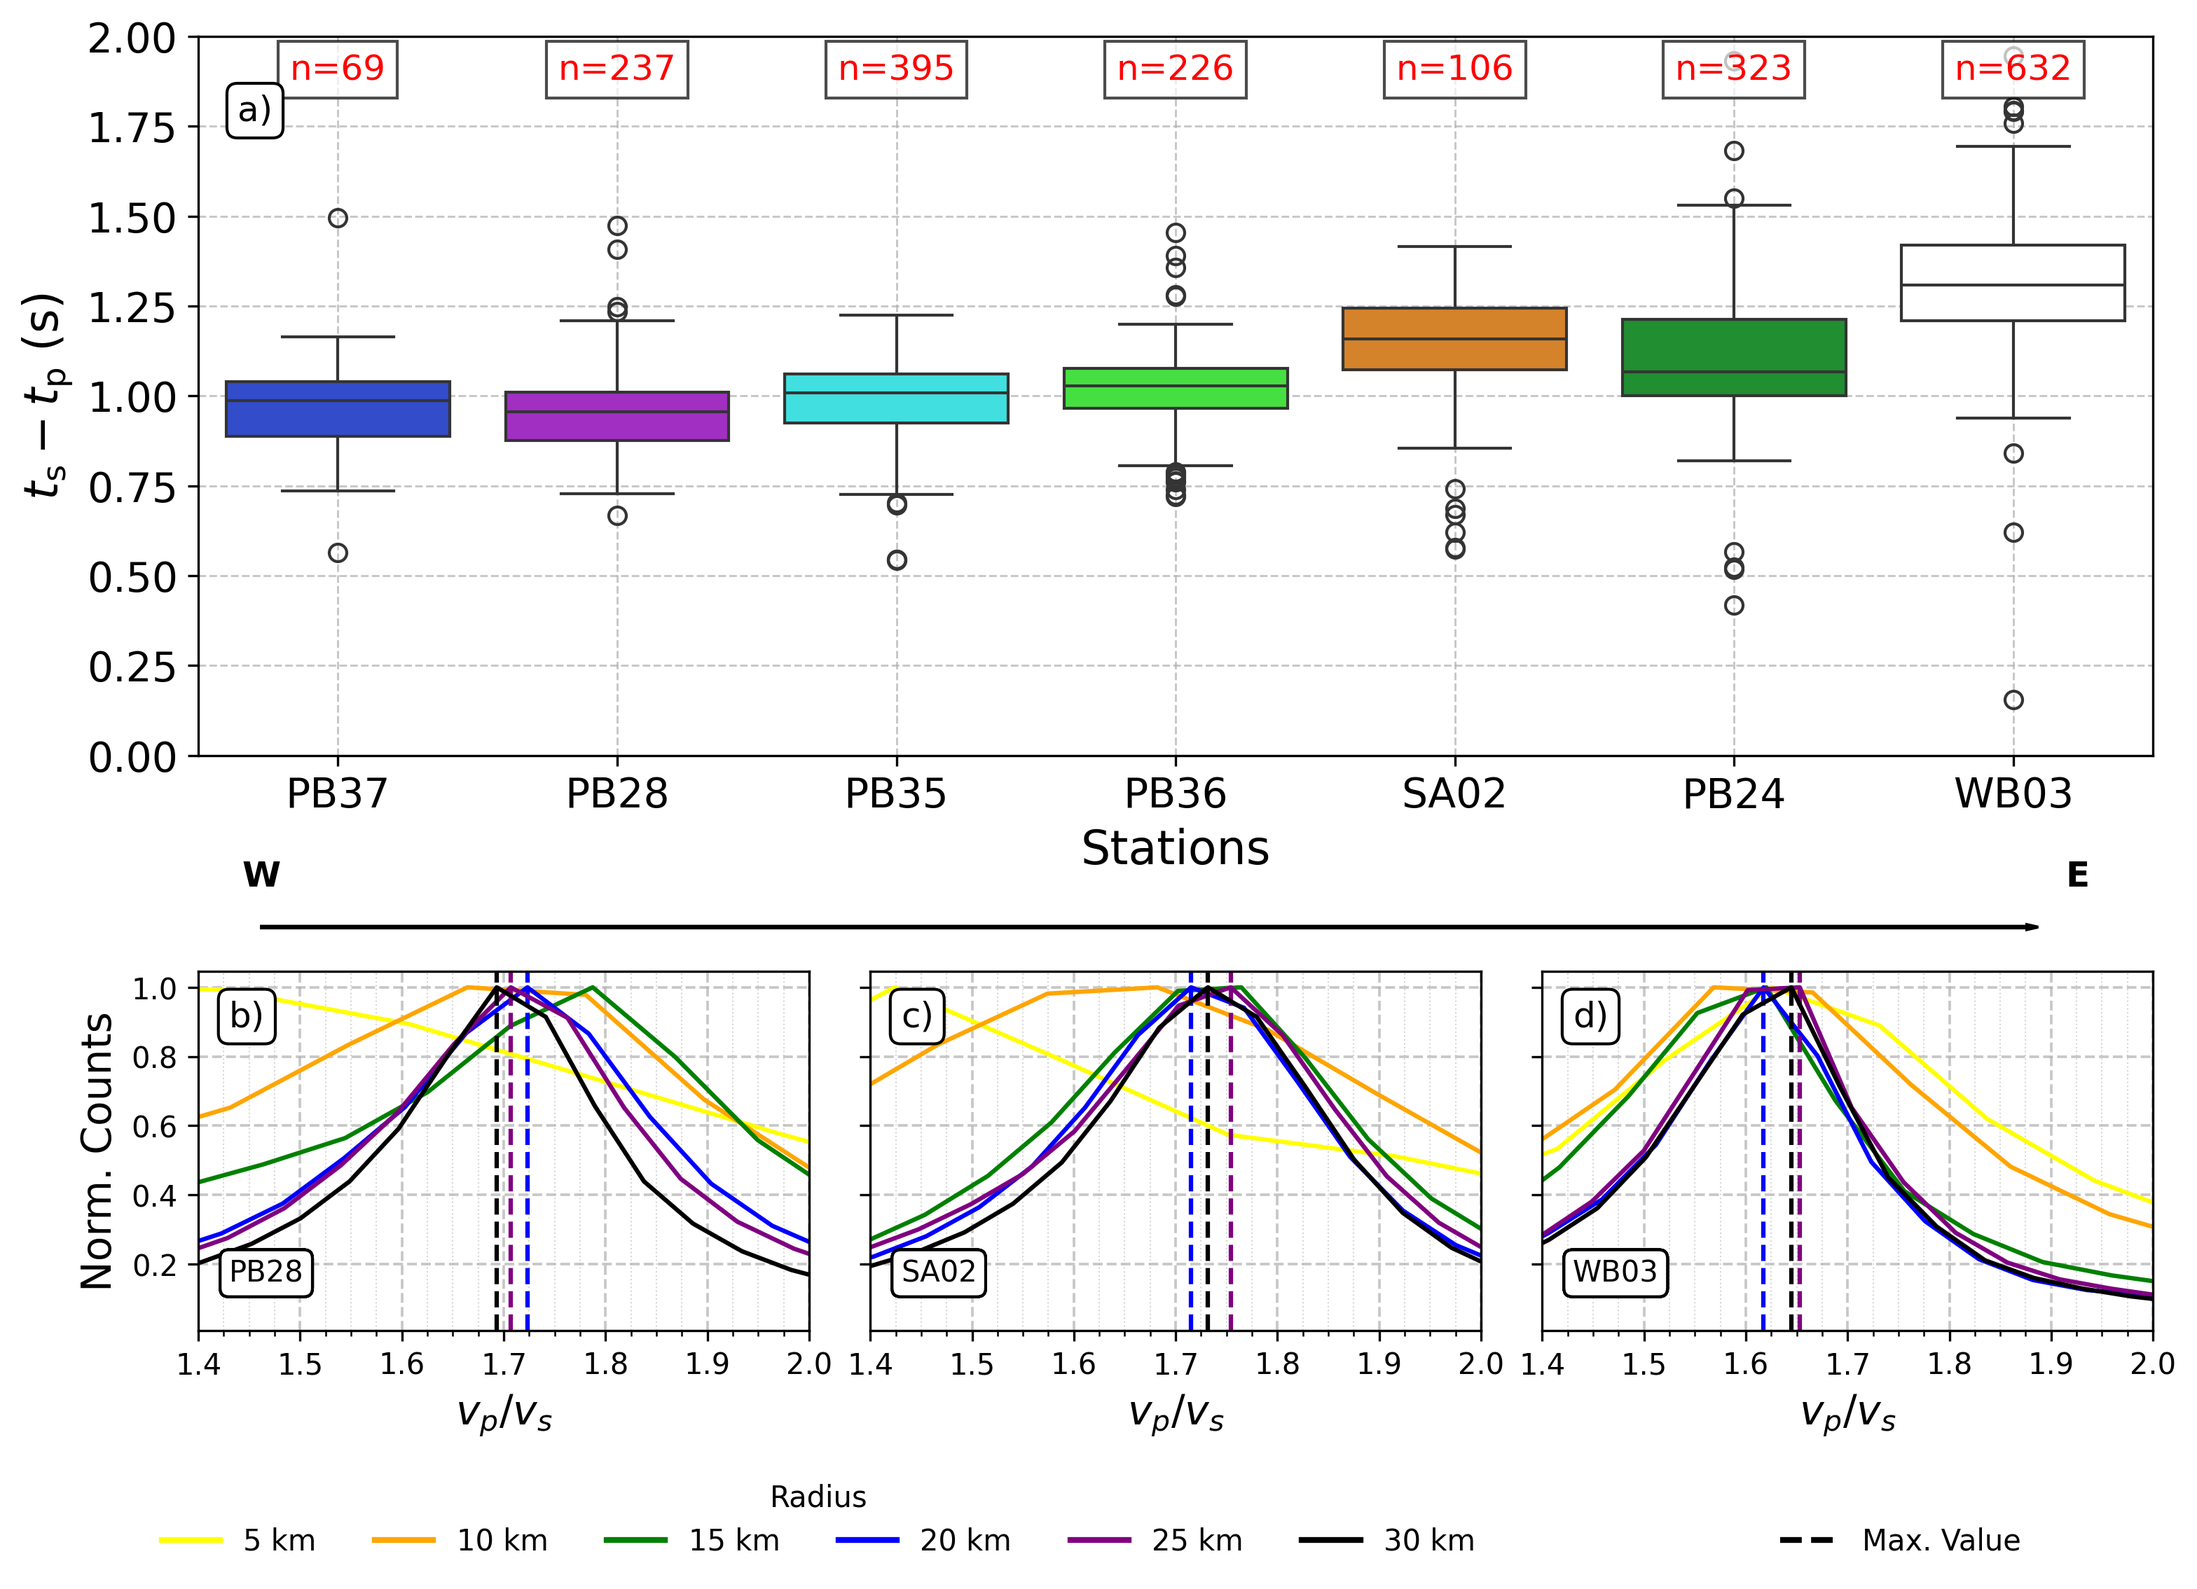
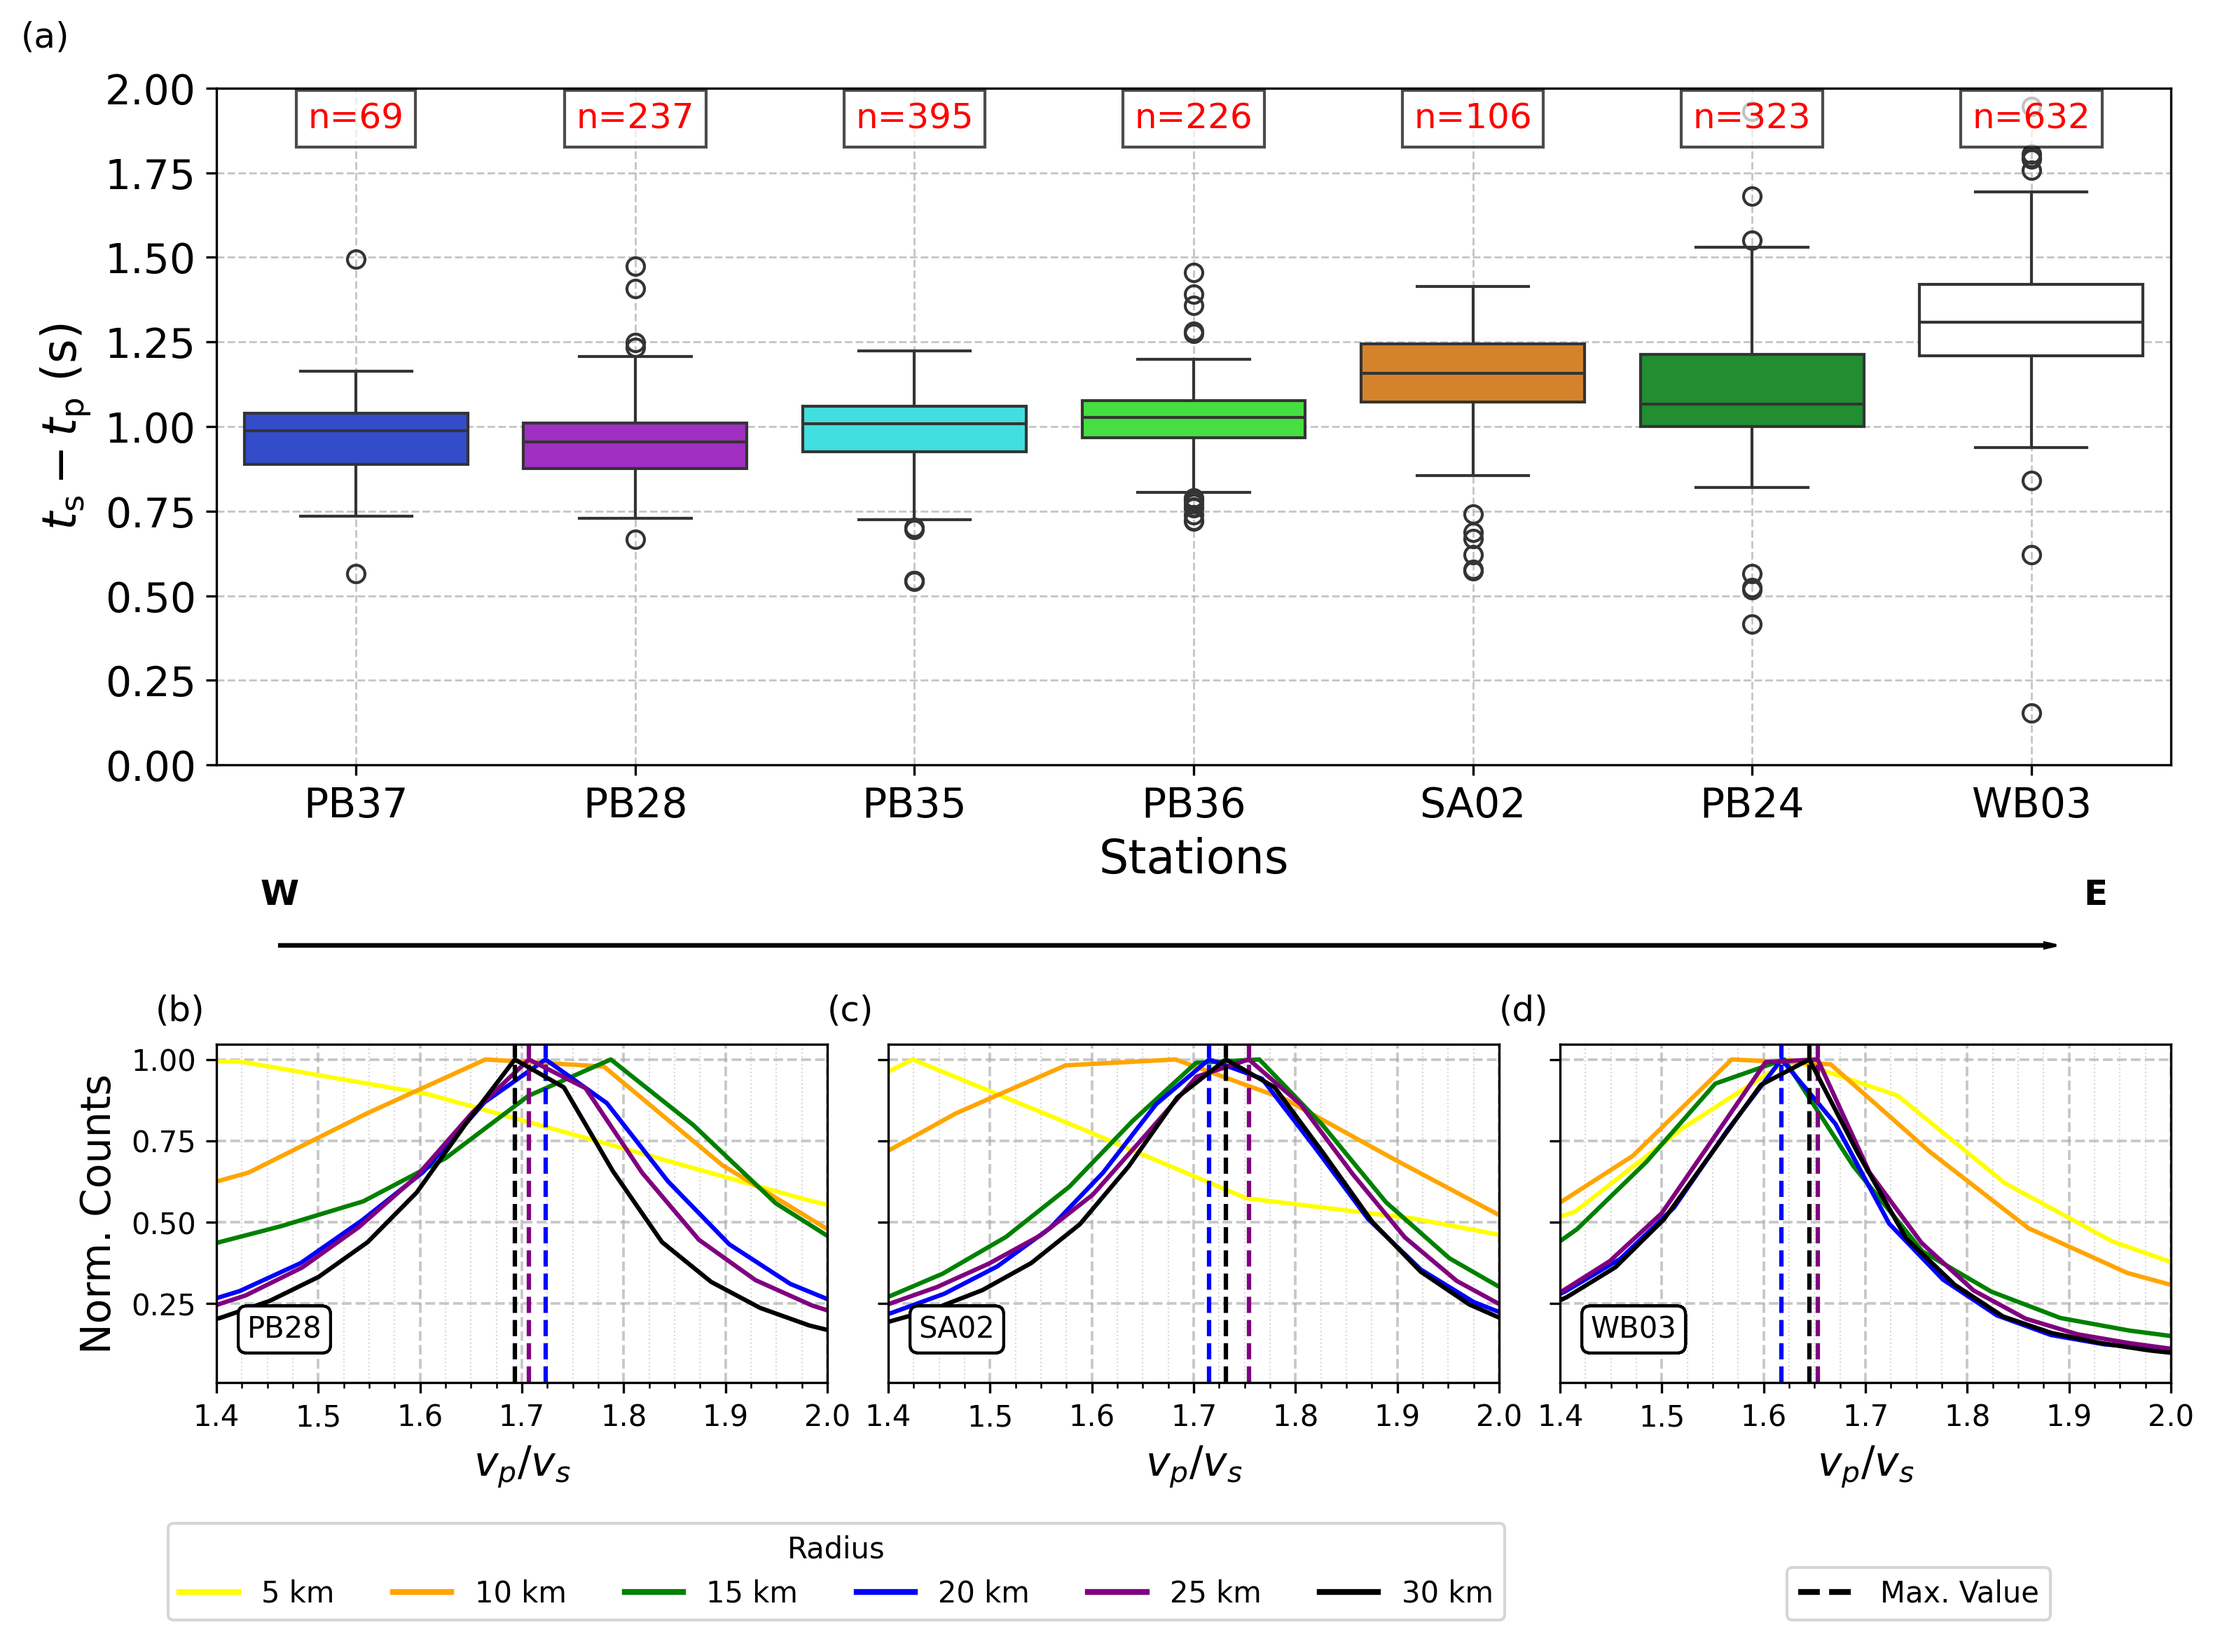
sp vpvs

diff --git a/02032024/project/sp_vpvs/fig2.py b/02032024/project/sp_vpvs/fig2.py
@@ -67,19 +67,29 @@ box = dict(boxstyle='round',
 # --- Plot Figure 1 (Top, Spanning All Columns) ---
 plot_times_by_station(picks, order=order, palette=custom_palette, 
                       ylim=(0, 2), show=False, ax=ax1)
-ax1.text(text_loc[0], text_loc[1], 
-                f"{string.ascii_lowercase[0]})", 
-                horizontalalignment='left', 
-                verticalalignment="top", 
-                transform=ax1.transAxes, 
-                fontsize="large", 
+# ax1.text(text_loc[0], text_loc[1], 
+#                 f"{string.ascii_lowercase[0]})", 
+#                 horizontalalignment='left', 
+#                 verticalalignment="top", 
+#                 transform=ax1.transAxes, 
+#                 fontsize="large", 
+#                 fontweight="normal",
+#                 bbox=box)
+
+ax1.annotate(f"({string.ascii_lowercase[0]})",
+                xy=(-0.1, 1.05),  # Slightly outside top-left
+                xycoords='axes fraction',
+                ha='left',
+                va='bottom',
+                fontsize="large",
                 fontweight="normal",
-                bbox=box)
+                # bbox=box
+                )
 
 # Arrow annotation for Figure 1
-fig.text(0.15, 0.38, "W", ha="center", va="center", fontsize=12, fontweight="bold")
-fig.text(0.87, 0.38, "E", ha="center", va="center", fontsize=12, fontweight="bold")
-arrow = mpatches.FancyArrow(0.15, 0.35, 0.7, 0, width=0.001, transform=fig.transFigure, color="black")
+fig.text(0.15, 0.4, "W", ha="center", va="center", fontsize=12, fontweight="bold")
+fig.text(0.87, 0.4, "E", ha="center", va="center", fontsize=12, fontweight="bold")
+arrow = mpatches.FancyArrow(0.15, 0.37, 0.7, 0, width=0.001, transform=fig.transFigure, color="black")
 fig.patches.append(arrow)
 
 
@@ -143,14 +153,23 @@ for n, (key, val) in enumerate(custom_palette_fig2.items()):
         ax.tick_params(labelleft=False)  # Hide labels but keep grid
 
     text_loc = [0.05, 0.92]
-    ax.text(text_loc[0], text_loc[1], 
-                f"{string.ascii_lowercase[n+1]})", 
-                horizontalalignment='left', 
-                verticalalignment="top", 
-                transform=ax.transAxes, 
-                fontsize="large", 
+    # ax.text(text_loc[0], text_loc[1], 
+    #             f"{string.ascii_lowercase[n+1]})", 
+    #             horizontalalignment='left', 
+    #             verticalalignment="top", 
+    #             transform=ax.transAxes, 
+    #             fontsize="large", 
+    #             fontweight="normal",
+    #             bbox=box)
+    ax.annotate(f"({string.ascii_lowercase[n+1]})",
+                xy=(-0.1, 1.05),  # Slightly outside top-left
+                xycoords='axes fraction',
+                ha='left',
+                va='bottom',
+                fontsize="large",
                 fontweight="normal",
-                bbox=box)
+                # bbox=box
+                )
 
 # Add legends
 legend_elements = [Line2D([0], [0], color=color, lw=2, label=f"{key} km") for key, color in r_color.items()]
@@ -158,16 +177,16 @@ legend_max = [Line2D([0], [0], color="black", lw=2, linestyle="--", label="Max. 
 
 fig.legend(handles=legend_elements,
            loc="lower left", 
-           ncol=6, frameon=False, 
+           ncol=6, frameon=True, 
            title="Radius", 
            bbox_to_anchor=(0.1, -0.04))
 fig.legend(handles=legend_max,
            loc="lower center", 
-           frameon=False, 
+           frameon=True, 
            bbox_to_anchor=(0.8, -0.04))
 
 # Adjust layout and save
-plt.subplots_adjust(hspace=0.4)
+plt.subplots_adjust(hspace=0.55)
 plt.savefig(output_path, dpi=300, 
             bbox_inches="tight")
 plt.show()
